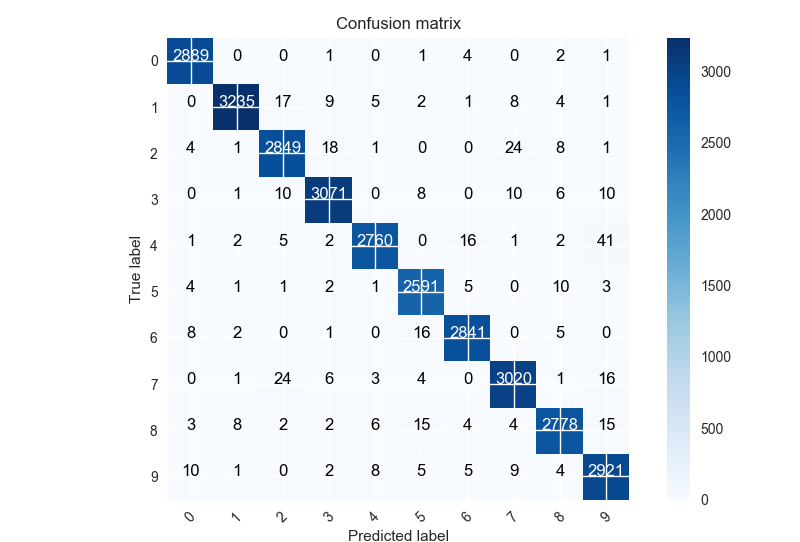
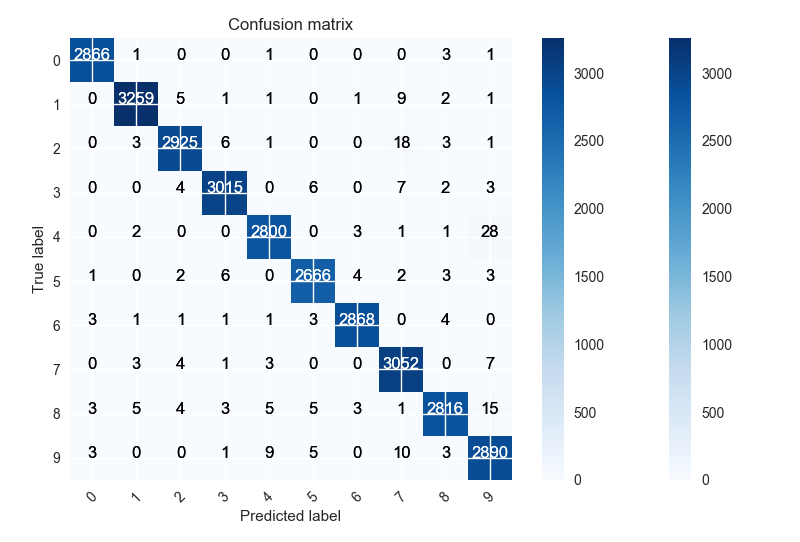
10 epochs results

diff --git a/main.py b/main.py
@@ -8,6 +8,7 @@ import matplotlib.pyplot as plt #for plotting
 from sklearn.metrics import confusion_matrix
 import itertools
 import seaborn as sns
+from utils import plot_log
 '''
 Code Credits
 capsule net for keras :
@@ -337,7 +338,7 @@ def Main():
     from sklearn.model_selection import train_test_split
     data_train = pd.read_csv('train.csv')
     #Data counter
-    sns.countplot(data_train['label'])
+    #sns.countplot(data_train['label'])
 
     X_full = data_train.iloc[:, 1:]
     y_full = data_train.iloc[:, :1]
@@ -351,9 +352,9 @@ def Main():
         train(model=model, data=((x_train, y_train), (x_test, y_test)),epochs=10,
               epoch_size_frac=0.5)
     else:
-        model.load_weights('weights-03.h5')
+        model.load_weights('trained_model.h5')
     y_pred= test(model=model, data=(x_test, y_test))
-
+    print('Test acc:', np.sum(np.argmax(y_pred, 1) == np.argmax(y_test, 1)) / y_test.shape[0])
     #Visualization for errors:
     # Look at confusion matrix
     # Note, this code is taken straight from the SKLEARN website, an nice way of viewing confusion matrix.
@@ -377,9 +378,12 @@ def Main():
     Y_pred_classes = np.argmax(y_pred_train, axis=1)
     # Convert validation observations to one hot vectors
     # compute the confusion matrix
-    confusion_mtx = confusion_matrix(np.argmax(y_train, axis=1), Y_pred_classes)
+    y_train_cl=np.argmax(y_train, axis=1)
+    confusion_mtx = confusion_matrix(y_train_cl, Y_pred_classes)
     # plot the confusion matrix
     plot_confusion_matrix(confusion_mtx, classes=range(10))
+    print('Train acc:', np.sum(Y_pred_classes == y_train_cl) / y_train_cl.shape[0])
+
     '''predict the test.csv
     data_test = pd.read_csv('../input/test.csv')
     data_test = data_test.values.reshape(-1, 28, 28, 1).astype('float32') / 255.
